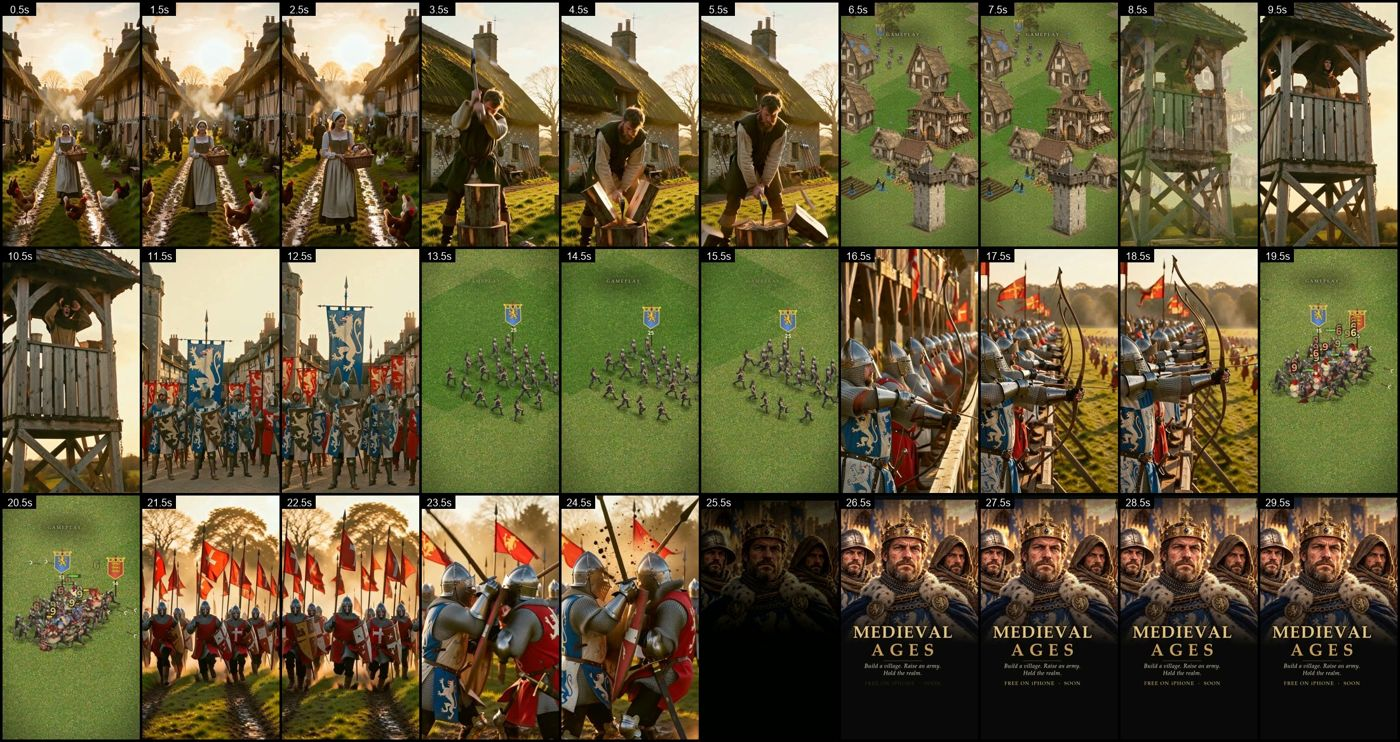
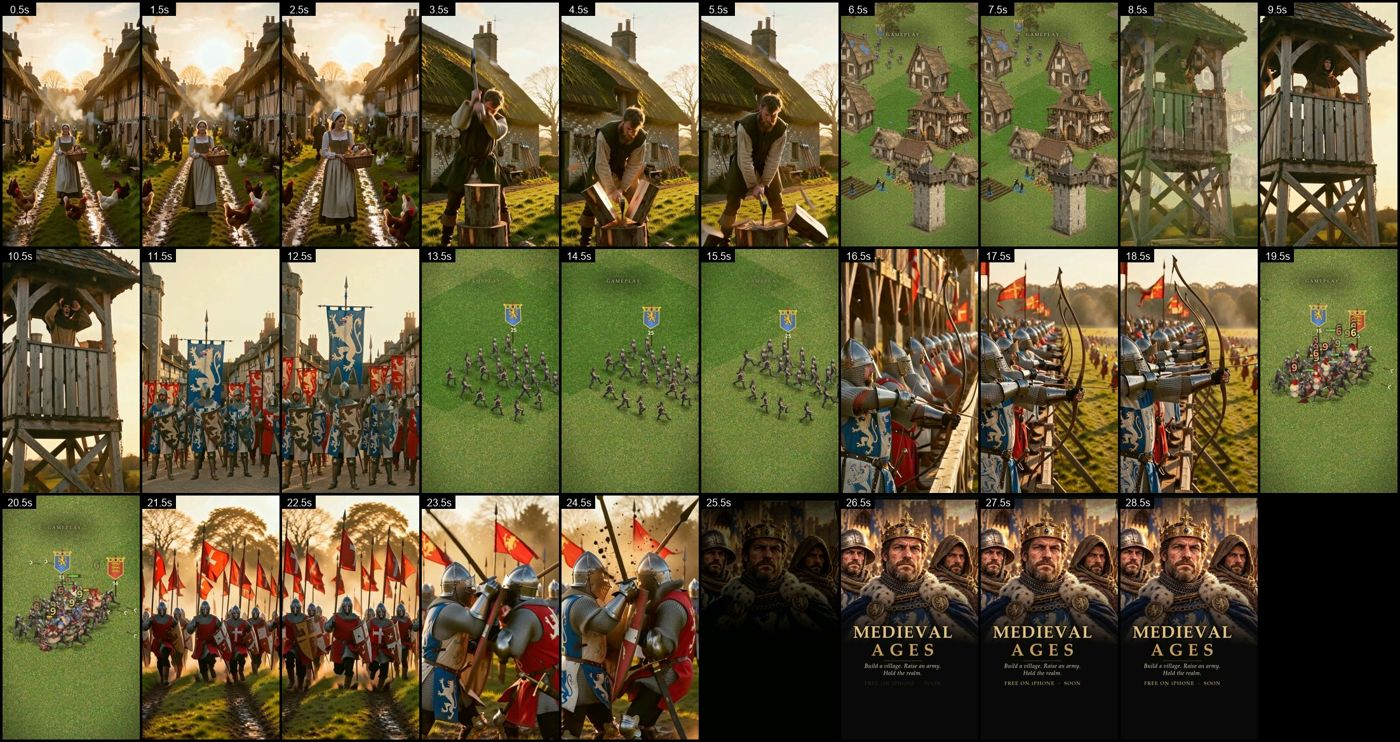
Promo: hook opens on the clean lion-tabard slam (v_slam_b); cinematic end card one beat shorter (29.9 s)
v_slam's red soldier dissolves into the dust after ~3.8 s, which showed in the
last frames of the hook's slam; v_slam_b is clean across 2.0-3.6 s.

Claude-Session: https://claude.ai/code/session_01LBPJC8xTJsfB7cV4xUHX1e

Changed region(s): [[0.8907, 0.6509, 1.0, 0.9299]]

diff --git a/art/source/promo/make_edls.py b/art/source/promo/make_edls.py
@@ -51,7 +51,7 @@ def build(name, music_start, shots, title_beats, title_xf=0.5, fade_out=2.2):
 #    then real gameplay on one-word beats, then the end card.
 build("hook", 61.045, [
     gen("v_charge_b", 2.7, 2, z0=1.04, z1=1.1, ay=0.45, grade="warm"),
-    gen("v_slam", 2.62, 3, z0=1.04, z1=1.0, sfx=[("sword_hit_2.wav", 0.35, -3), ("sword_hit_4.wav", 1.2, -8)]),
+    gen("v_slam_b", 2.0, 3, z0=1.04, z1=1.0, sfx=[("sword_hit_2.wav", 0.35, -3), ("sword_hit_4.wav", 1.2, -8)]),
     game("village", 0.6, 4, cap=[("tag_gameplay.png", 0, 4), ("cap_w_build.png", 0.15, 3.85)]),
     game("mill", 1.0, 3, z0=1.12, z1=1.18, ay=0.35),
     game("gather", 1.0, 3, z0=1.22, z1=1.3, ax=0.45, ay=0.15, cap=[("cap_w_gather.png", 0.1, 2.9)], sfx=[("axe_chop_1.wav", 0.5, -10), ("pick_hit_2.wav", 1.5, -12), ("axe_chop_3.wav", 2.4, -10)]),
@@ -76,7 +76,7 @@ build("cinematic", 30.081, [
     game("battle", 2.5, 4, cap=[("tag_gameplay.png", 0, 4)], sfx=[("sword_hit_1.wav", 0.6, -10), ("sword_hit_3.wav", 1.9, -10), ("sword_hit_5.wav", 3.1, -10)]),
     gen("v_charge_b", 1.4, 4, z0=1.0, z1=1.08, ay=0.45, grade="warm"),
     gen("v_slam_b", 2.0, 5, z0=1.0, z1=1.06, sfx=[("sword_hit_2.wav", 0.5, -4), ("sword_hit_4.wav", 2.0, -9)]),
-], title_beats=8, title_xf=0.4, fade_out=3.5)
+], title_beats=7, title_xf=0.4, fade_out=3.0)
 
 # 3. HOW IT PLAYS, ~15 s. Music from 133.128 (the second surge, 136-146), captions per beat of the loop.
 build("howitplays", 133.128, [
